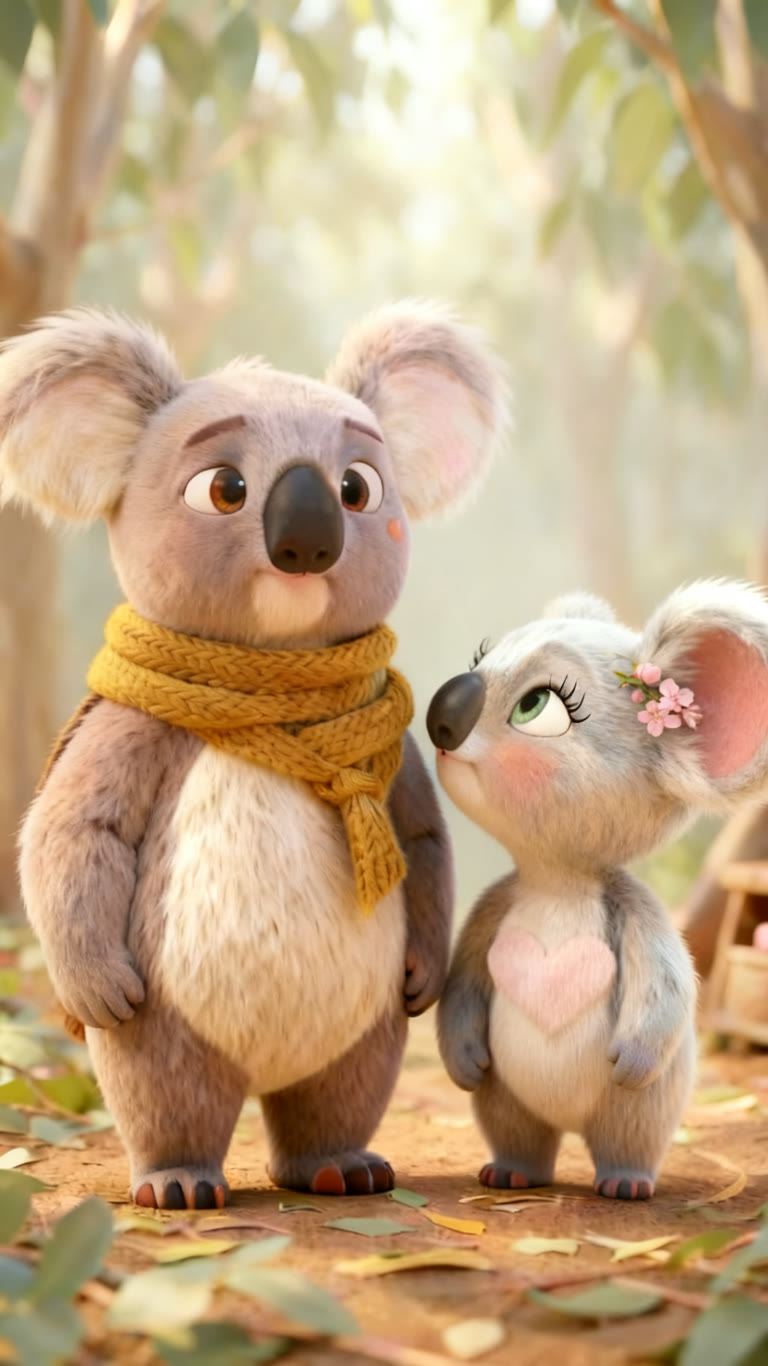
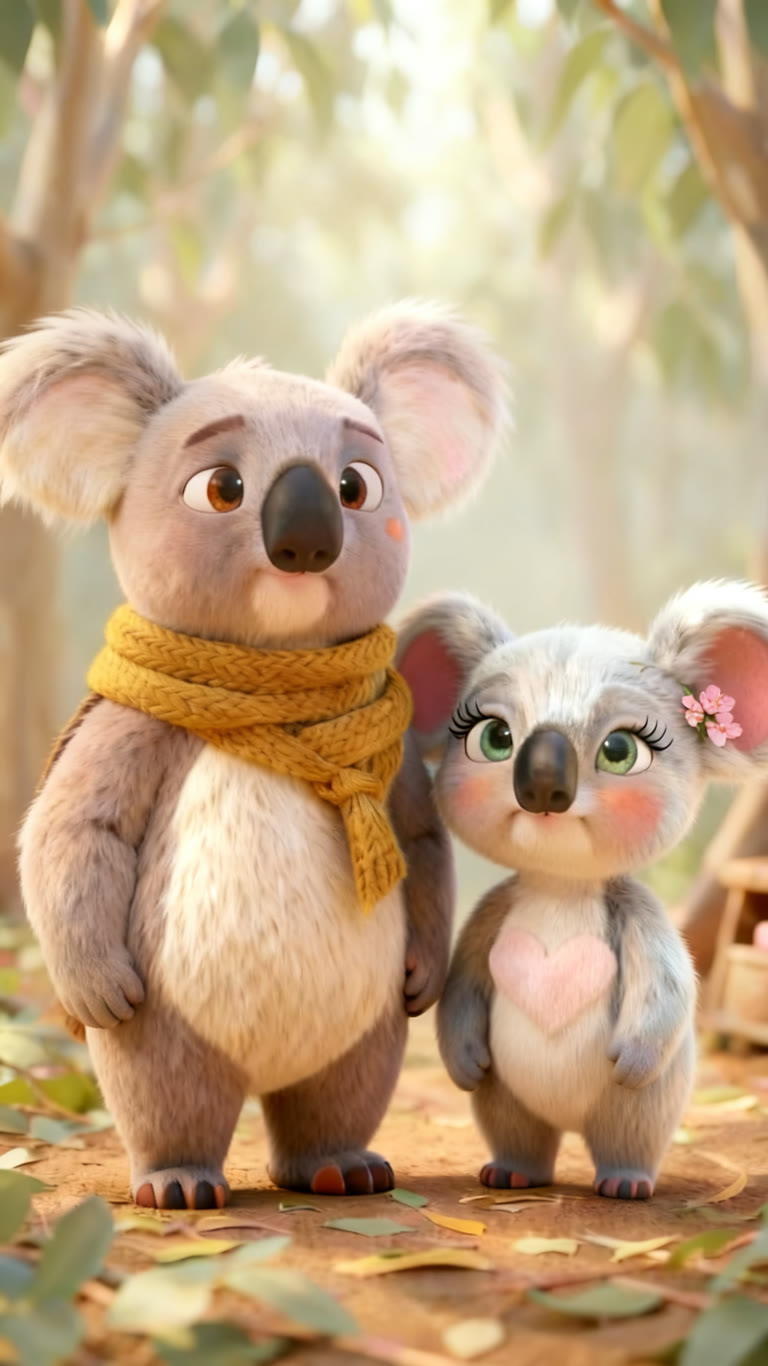
koala: 2026-09-28

Changed region(s): [[0.5, 0.4305, 1.0, 0.7072], [0.25, 0.3382, 0.3438, 0.3997], [0.4375, 0.3382, 0.5, 0.3997]]

diff --git a/docs/koala.html b/docs/koala.html
@@ -18,11 +18,11 @@ h2{margin:0;font-size:18px}.note{color:var(--warn);font-size:13px}
 </style><main>
 <h1>Pip &amp; Willow</h1>
 <section class="budget">
-  <b>$2.72</b> of $48.00 spent this month
-  <div class="bar"><i style="width:5.7%"></i></div>
+  <b>$2.76</b> of $48.00 spent this month
+  <div class="bar"><i style="width:5.8%"></i></div>
   <span class="muted">About 8 more episodes fit in this month's budget. Next up: I&#39;m fine.</span>
 </section>
-<section class="status ok"><b>Last run:</b> New-look reference pictures are ready to approve (1). No episode is made until they are approved.<br><span class="muted">2026-09-28 06:08 UTC</span></section>
+<section class="status ok"><b>Last run:</b> New-look reference pictures are ready to approve (1). No episode is made until they are approved.<br><span class="muted">2026-09-28 06:09 UTC</span></section>
 <section class="status"><b>New look — waiting for your OK</b><div class="refs"><img src="refs-new/ref1.jpg" alt=""></div><span class="muted">Tell Claude "approve the new look" or what to change.</span></section>
 <p class="muted">Posting: download → add a sound in TikTok → tick <b>AI-generated</b> → post. Post the full episode first, the short cut on the next day.</p>
 
